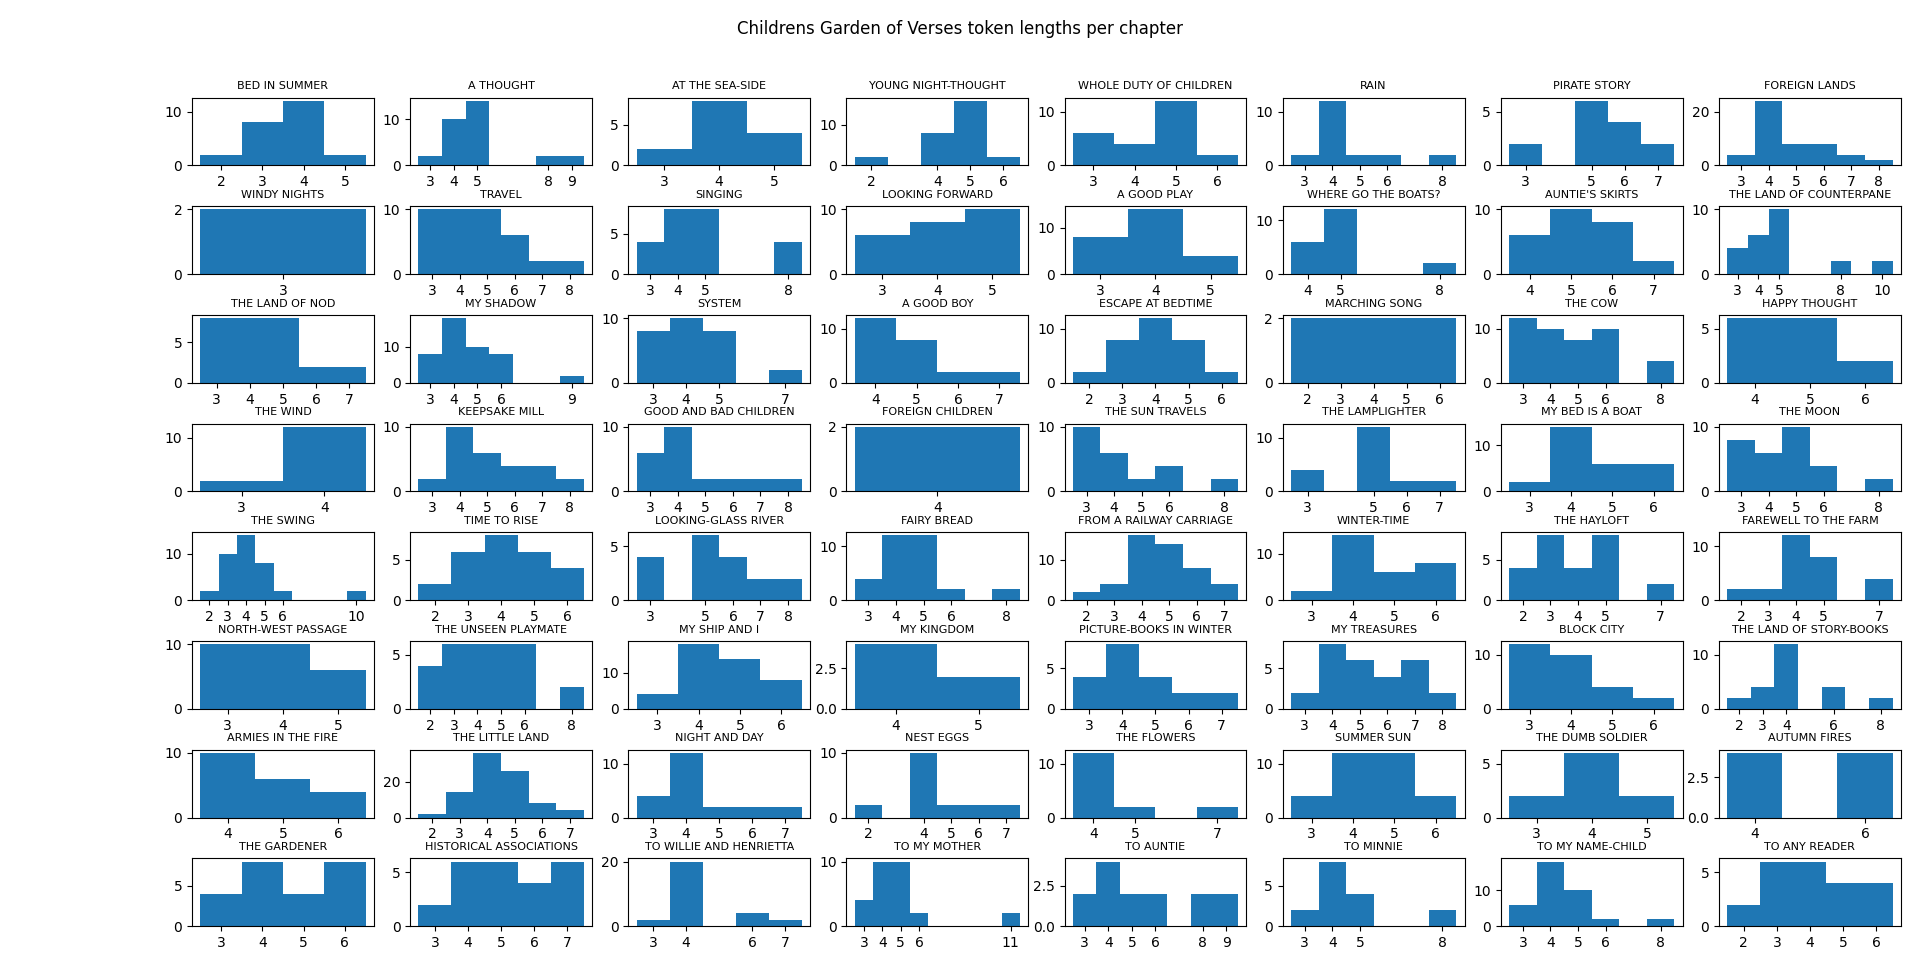
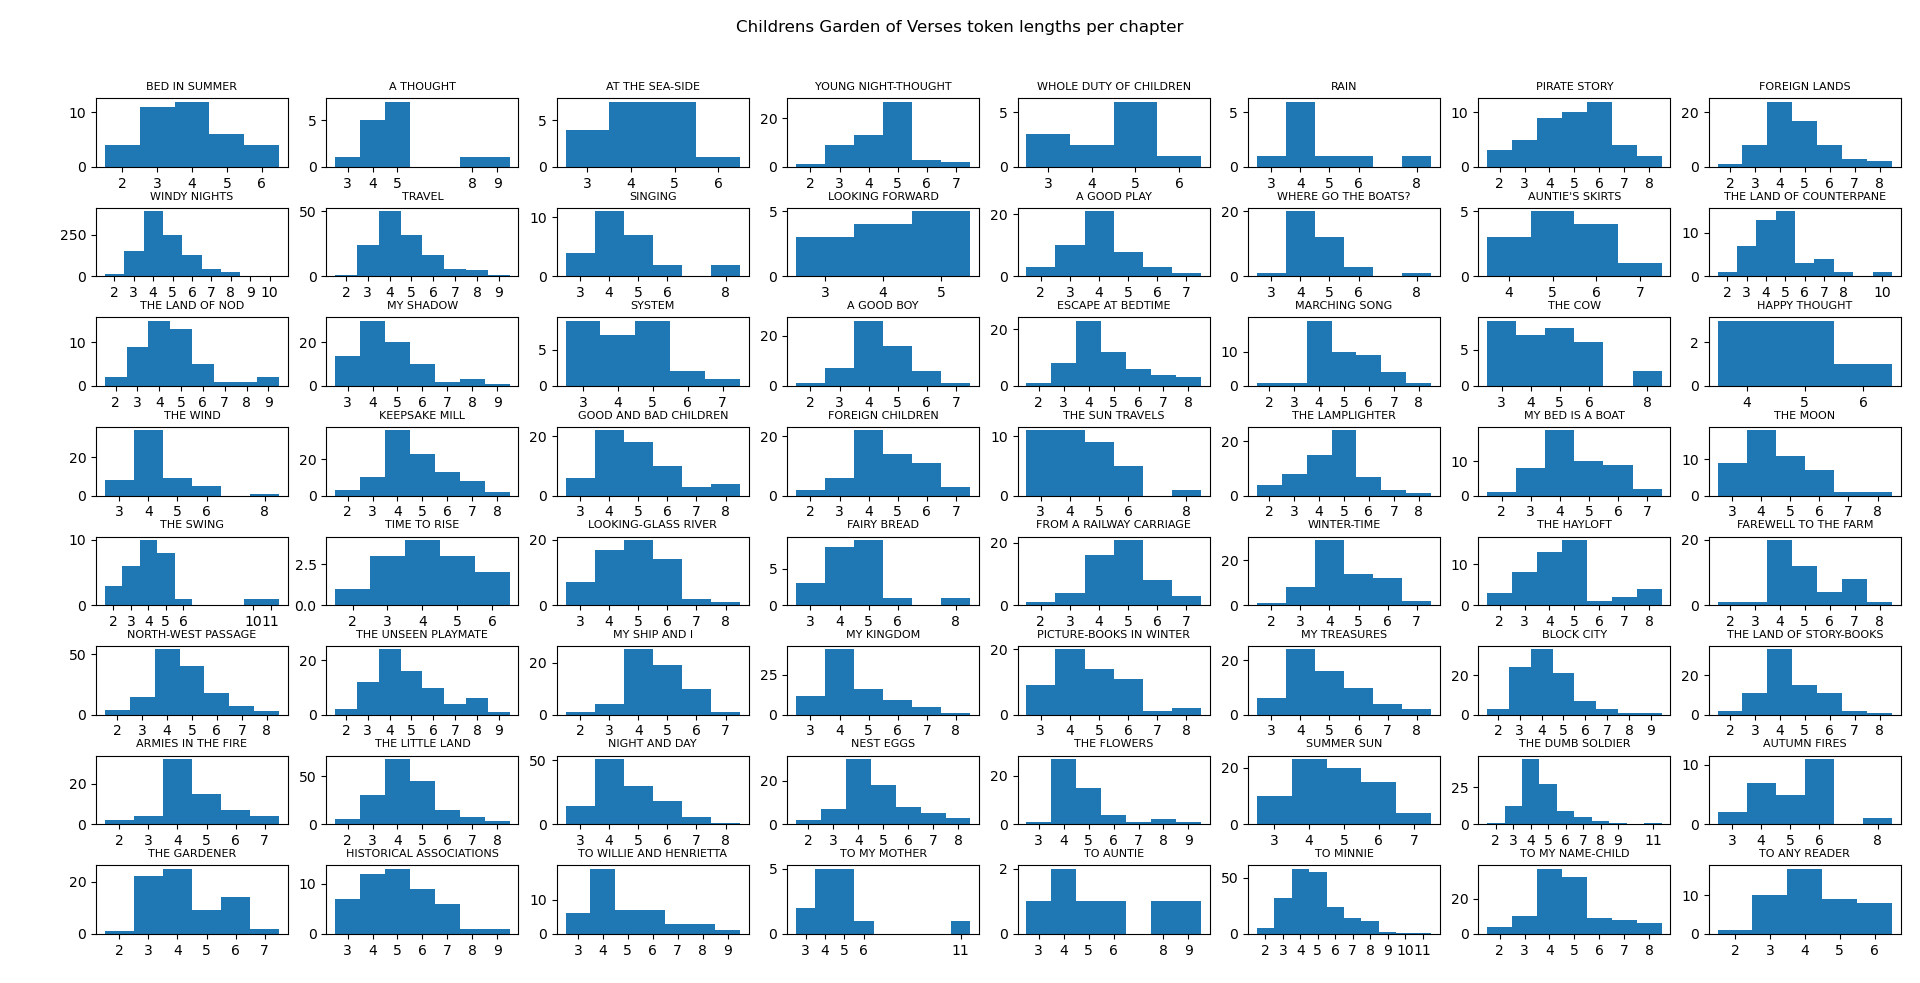
Fixed Task3 token length calculation

Changed region(s): [[0.0312, 0.0615, 1.0, 0.9846], [0.375, 0.0, 0.625, 0.0308]]

diff --git a/Task3.py b/Task3.py
@@ -39,9 +39,9 @@ def get_token_lengths(chapter):
         words = [stemmer.stem(word) for word in words]
         words = [WN_lemmatizer.lemmatize(word, pos="v") for word in words]
 
-        token_lengths = [len(word) for word in words if word.isalpha() and word not in Stopwords] #get rid of numbers and Stopwords
+        sentence_token_lengths = [len(word) for word in words if word.isalpha() and word not in Stopwords] #get rid of numbers and Stopwords
 
-        token_lengths.extend(token_lengths)
+        token_lengths.extend(sentence_token_lengths)
 
     return np.array(token_lengths)
 
@@ -67,7 +67,7 @@ def plot_token_length_histograms(book_name, chapters, nrows, ncolumns):
         ax[row, i].set_title(title, fontsize=8)
         ax[row, i].set_xticks(np.unique(token_lengths))
 
-    plt.subplots_adjust(left=0.10, bottom=0.05, right=0.99, top=0.90, wspace=0.20, hspace=0.60)
+    plt.subplots_adjust(left=0.05, bottom=0.05, right=0.99, top=0.90, wspace=0.20, hspace=0.60)
 
     fig = plt.figure(book_name + ' token lengths cross-chapter')
     fig.suptitle(book_name + ' token lengths cross-chapter', fontsize=12)
